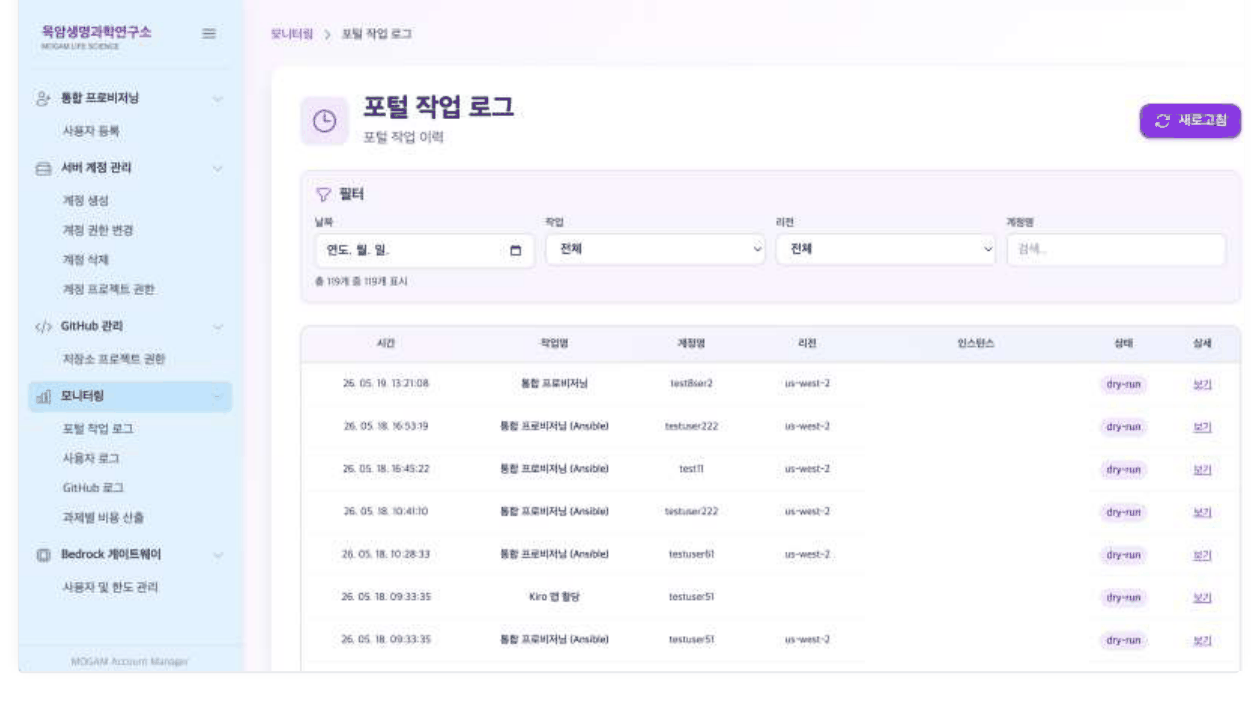
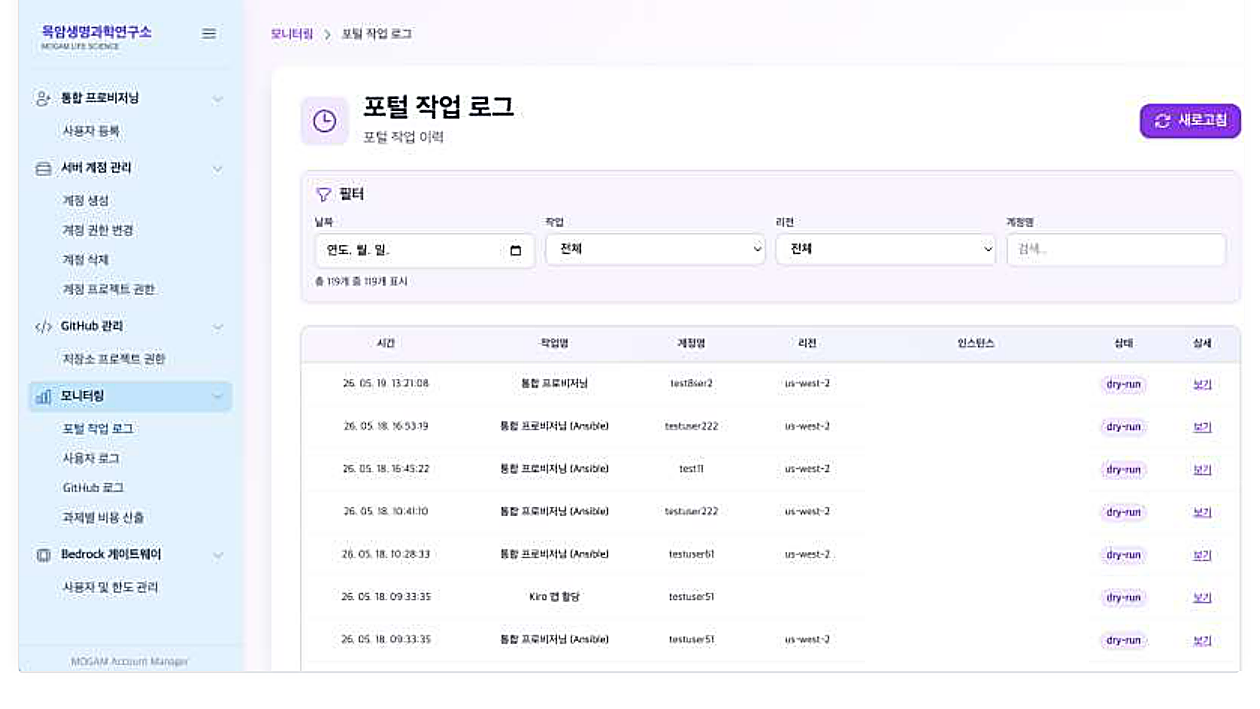
feat(site): 화면 이미지를 원본 해상도로 교체하고 GitOps 카드에 아키텍처 그림 추가
- Grafana 5장·Mogam Works 2장: 1600px 축소와 256색 양자화를 없애고 원본 해상도 PNG로 다시 만듦(가림 좌표는 이전과 같음)
- 포털·비용 화면 4장: 원본 슬라이드 자체가 흐려 무손실 저장 + 선명화
- 카드에는 960x540 WebP 썸네일(11장 합 372KB)을 싣고, 클릭하면 원본 PNG가 열림
- GitOps 카드: k8s-infra-as-code README 다이어그램과 App of Apps 배포 흐름을 SVG 2장으로 그림

diff --git a/index.html b/index.html
@@ -374,11 +374,11 @@
                 <span>아키텍처</span>
               </a>
               <a class="arch-fig" href="assets/arch/agentic-editor-parallel.png" target="_blank" rel="noopener">
-                <img src="assets/arch/agentic-editor-parallel.png" alt="멀티모델 병렬 실행 화면 — 10개 모델에 같은 질문을 보내 응답을 나란히 비교" loading="lazy" decoding="async">
+                <img src="assets/arch/thumb/agentic-editor-parallel.webp" alt="멀티모델 병렬 실행 화면 — 10개 모델에 같은 질문을 보내 응답을 나란히 비교" loading="lazy" decoding="async">
                 <span>멀티모델 병렬 실행</span>
               </a>
               <a class="arch-fig" href="assets/arch/agentic-editor-consensus.png" target="_blank" rel="noopener">
-                <img src="assets/arch/agentic-editor-consensus.png" alt="합의 도출 화면 — 병렬 응답을 상위 모델이 종합한 합의 결과" loading="lazy" decoding="async">
+                <img src="assets/arch/thumb/agentic-editor-consensus.webp" alt="합의 도출 화면 — 병렬 응답을 상위 모델이 종합한 합의 결과" loading="lazy" decoding="async">
                 <span>합의 도출</span>
               </a>
             </div>
@@ -494,15 +494,15 @@
             <span class="arch-figs__label">Grafana 대시보드 — 클릭하면 원본이 열립니다 · 계정명과 과제명은 가렸습니다</span>
             <div class="arch-figs__row">
               <a class="arch-fig" href="assets/arch/storage-s3-overview.png" target="_blank" rel="noopener">
-                <img src="assets/arch/storage-s3-overview.png" alt="S3 프로젝트 디렉터리 모니터링 — 현재·비현재 총용량, 증가량, 7일 추이" loading="lazy" decoding="async">
+                <img src="assets/arch/thumb/storage-s3-overview.webp" alt="S3 프로젝트 디렉터리 모니터링 — 현재·비현재 총용량, 증가량, 7일 추이" loading="lazy" decoding="async">
                 <span>S3 디렉터리 모니터링</span>
               </a>
               <a class="arch-fig" href="assets/arch/storage-fsx.png" target="_blank" rel="noopener">
-                <img src="assets/arch/storage-fsx.png" alt="FSx for Lustre 사용 현황 — 디스크 사용량, 경로별·사용자별 용량(사용자 계정명 가림)" loading="lazy" decoding="async">
+                <img src="assets/arch/thumb/storage-fsx.webp" alt="FSx for Lustre 사용 현황 — 디스크 사용량, 경로별·사용자별 용량(사용자 계정명 가림)" loading="lazy" decoding="async">
                 <span>FSx 사용 현황</span>
               </a>
               <a class="arch-fig" href="assets/arch/storage-s3-top10.png" target="_blank" rel="noopener">
-                <img src="assets/arch/storage-s3-top10.png" alt="S3 과제별·소유자별 용량 Top10과 최근 1시간 증가 Top10(과제명·계정명 가림)" loading="lazy" decoding="async">
+                <img src="assets/arch/thumb/storage-s3-top10.webp" alt="S3 과제별·소유자별 용량 Top10과 최근 1시간 증가 Top10(과제명·계정명 가림)" loading="lazy" decoding="async">
                 <span>과제·소유자 Top10</span>
               </a>
             </div>
@@ -552,11 +552,11 @@
             <span class="arch-figs__label">Grafana 대시보드 — 클릭하면 원본이 열립니다 · 계정명과 과제명은 가렸습니다</span>
             <div class="arch-figs__row">
               <a class="arch-fig" href="assets/arch/gpu-obs-overview.png" target="_blank" rel="noopener">
-                <img src="assets/arch/gpu-obs-overview.png" alt="GPU 사용자 현황 대시보드 — 노드 CPU·메모리, GPU별 사용률과 상태(사용자 계정명 가림)" loading="lazy" decoding="async">
+                <img src="assets/arch/thumb/gpu-obs-overview.webp" alt="GPU 사용자 현황 대시보드 — 노드 CPU·메모리, GPU별 사용률과 상태(사용자 계정명 가림)" loading="lazy" decoding="async">
                 <span>GPU 사용자 현황</span>
               </a>
               <a class="arch-fig" href="assets/arch/gpu-obs-cpu.png" target="_blank" rel="noopener">
-                <img src="assets/arch/gpu-obs-cpu.png" alt="사용자별 CPU 코어 사용량 추이(사용자 계정명 가림)" loading="lazy" decoding="async">
+                <img src="assets/arch/thumb/gpu-obs-cpu.webp" alt="사용자별 CPU 코어 사용량 추이(사용자 계정명 가림)" loading="lazy" decoding="async">
                 <span>사용자별 CPU 사용량</span>
               </a>
             </div>
@@ -614,7 +614,7 @@
                 <span>아키텍처·배분 로직</span>
               </a>
               <a class="arch-fig" href="assets/arch/finops-cost-dashboard.png" target="_blank" rel="noopener">
-                <img src="assets/arch/finops-cost-dashboard.png" alt="과제별 비용 대시보드 — 달력·일/월 전환, 과제·사용자·인스턴스별 보기, USD/KRW, 엑셀 다운로드(금액·과제명 가림)" loading="lazy" decoding="async">
+                <img src="assets/arch/thumb/finops-cost-dashboard.webp" alt="과제별 비용 대시보드 — 달력·일/월 전환, 과제·사용자·인스턴스별 보기, USD/KRW, 엑셀 다운로드(금액·과제명 가림)" loading="lazy" decoding="async">
                 <span>과제별 비용 대시보드</span>
               </a>
             </div>
@@ -716,15 +716,15 @@
             <span class="arch-figs__label">포털 화면 — 클릭하면 원본이 열립니다 · 계정명과 호스트명은 가렸습니다</span>
             <div class="arch-figs__row">
               <a class="arch-fig" href="assets/arch/portal-onboarding.png" target="_blank" rel="noopener">
-                <img src="assets/arch/portal-onboarding.png" alt="통합 프로비저닝 — 이메일·서버 계정 매핑, IAM Identity Center 그룹 배치, Dry Run 검증을 한 화면에서 실행" loading="lazy" decoding="async">
+                <img src="assets/arch/thumb/portal-onboarding.webp" alt="통합 프로비저닝 — 이메일·서버 계정 매핑, IAM Identity Center 그룹 배치, Dry Run 검증을 한 화면에서 실행" loading="lazy" decoding="async">
                 <span>통합 프로비저닝</span>
               </a>
               <a class="arch-fig" href="assets/arch/portal-action-log.png" target="_blank" rel="noopener">
-                <img src="assets/arch/portal-action-log.png" alt="포털 작업 로그 — 계정 추가·권한 수정 같은 관리 조작을 dry-run 여부와 함께 이력으로 조회(호스트명 가림)" loading="lazy" decoding="async">
+                <img src="assets/arch/thumb/portal-action-log.webp" alt="포털 작업 로그 — 계정 추가·권한 수정 같은 관리 조작을 dry-run 여부와 함께 이력으로 조회(호스트명 가림)" loading="lazy" decoding="async">
                 <span>포털 작업 로그</span>
               </a>
               <a class="arch-fig" href="assets/arch/portal-bedrock-quota.png" target="_blank" rel="noopener">
-                <img src="assets/arch/portal-bedrock-quota.png" alt="Bedrock 게이트웨이 사용자 관리 — 팀별 사용자의 월 사용량과 한도, 단계 상향(사용자명 가림)" loading="lazy" decoding="async">
+                <img src="assets/arch/thumb/portal-bedrock-quota.webp" alt="Bedrock 게이트웨이 사용자 관리 — 팀별 사용자의 월 사용량과 한도, 단계 상향(사용자명 가림)" loading="lazy" decoding="async">
                 <span>Bedrock 사용자·한도 관리</span>
               </a>
             </div>
@@ -769,6 +769,19 @@
               <span class="pd-badge__mark">R</span>
               <strong>결과 (Result)</strong>
               <span>엔드투엔드 GitOps 파이프라인을 성공적으로 구축하며 IaC와 선언적 배포, 그리고 관측 가능성(Observability)에 대한 이해와 실무 역량을 확보했습니다.</span>
+            </div>
+          </div>
+          <div class="arch-figs">
+            <span class="arch-figs__label">아키텍처 자료 — 클릭하면 원본이 열립니다</span>
+            <div class="arch-figs__row">
+              <a class="arch-fig" href="assets/arch/gitops-infra-architecture.svg" target="_blank" rel="noopener">
+                <img src="assets/arch/gitops-infra-architecture.svg" alt="Multi-Cloud EKS·AKS 인프라 아키텍처 — 사용자 → Route 53 → ALB(WAF 검사) → EKS 워커 노드 → Ingress → 애플리케이션 Pod ↔ Rook-Ceph, Terraform 모듈·환경 구조" loading="lazy" decoding="async">
+                <span>인프라 아키텍처</span>
+              </a>
+              <a class="arch-fig" href="assets/arch/gitops-delivery-flow.svg" target="_blank" rel="noopener">
+                <img src="assets/arch/gitops-delivery-flow.svg" alt="GitOps 배포 흐름 — GitHub Actions가 이미지를 GHCR에 올리고 태그를 갱신하면, Argo CD App of Apps가 모니터링·로깅·스토리지·앱을 클러스터에 동기화, Sealed Secrets" loading="lazy" decoding="async">
+                <span>GitOps 배포 흐름</span>
+              </a>
             </div>
           </div>
           <div class="chip-cloud" style="padding: 0 22px 22px;">
